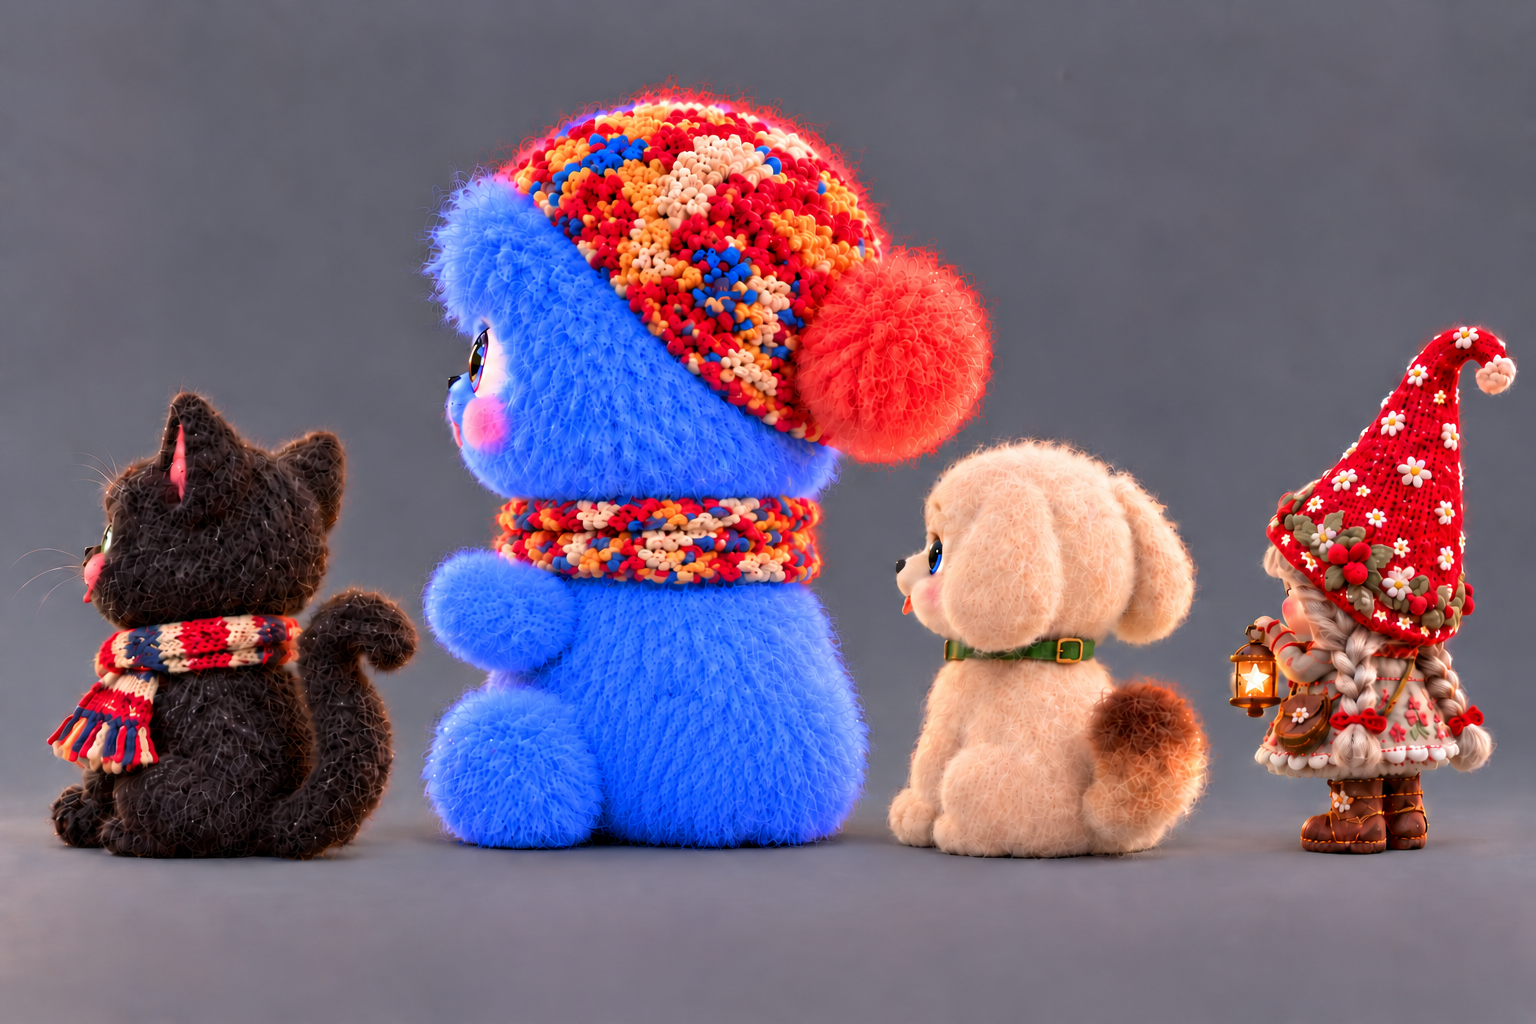
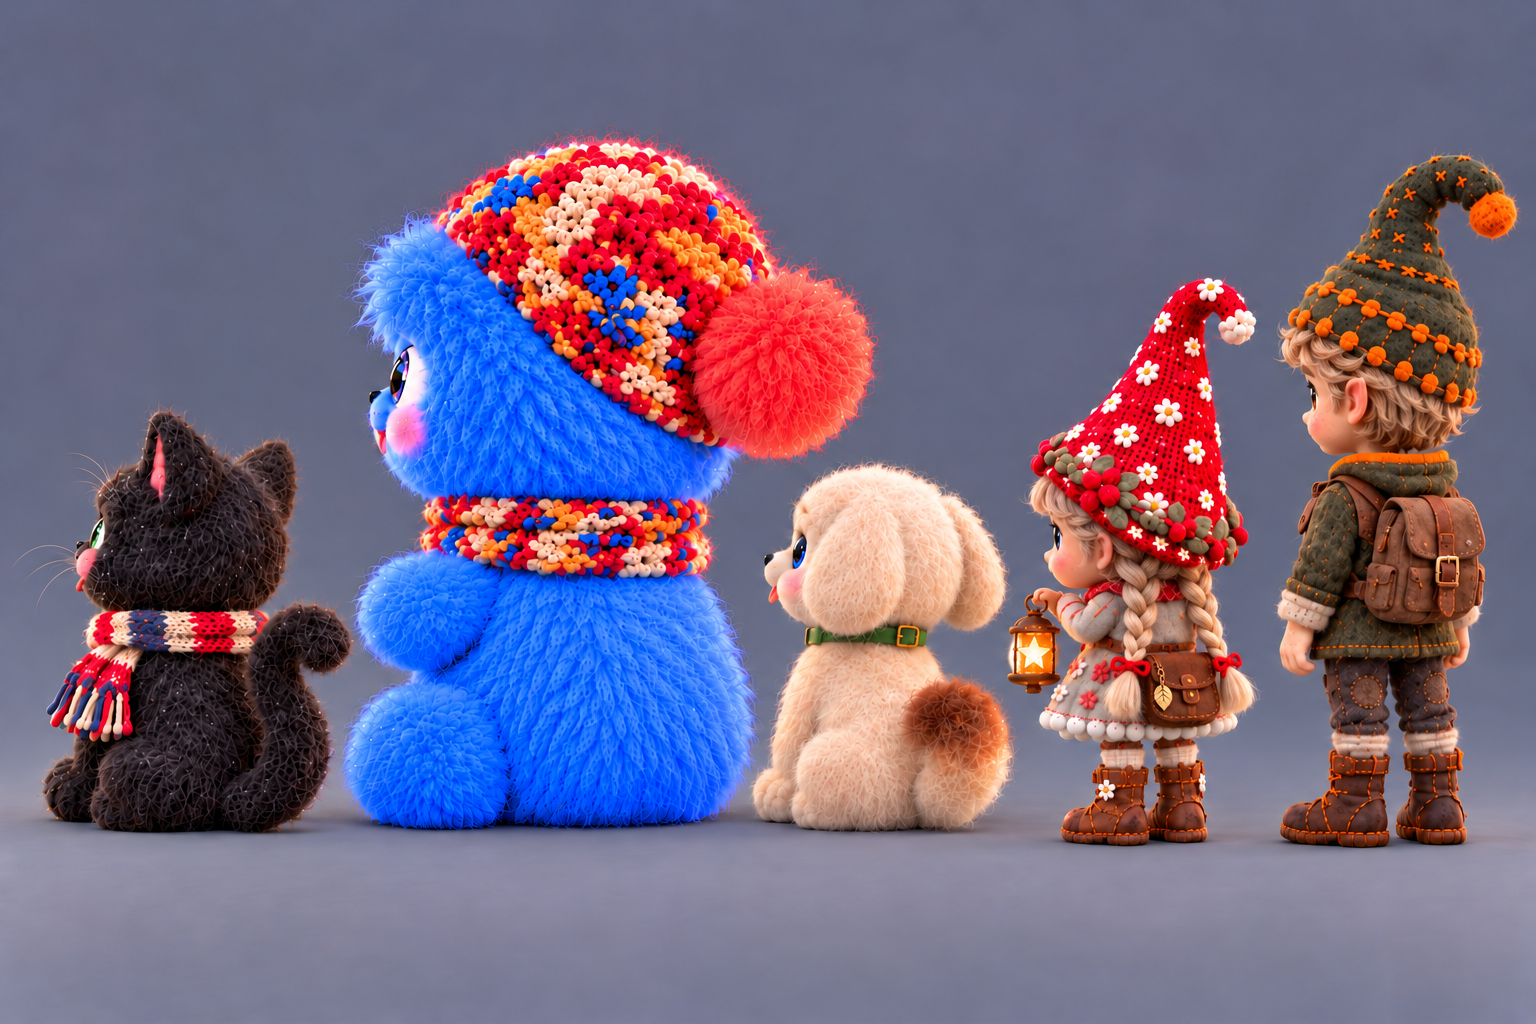
Update all eight character review angles with Jack and revised Nomie

diff --git a/character-review/index.html b/character-review/index.html
@@ -9,7 +9,7 @@
   <title>Character review</title>
   <link rel="icon" href="data:,">
   <link rel="stylesheet" href="review.css">
-  <script src="review.js?v=20261002-lumi-nomie-v2" defer></script>
+  <script src="review.js?v=20261002-five-gnomes-v3" defer></script>
 </head>
 <body>
   <main class="review">
@@ -19,13 +19,13 @@
         <span class="count" id="view-count" aria-label="Image 1 of 8" aria-live="polite" aria-atomic="true">1 / 8</span>
       </div>
       <div class="actions">
-        <a id="original-link" href="images/front.png?v=20261002-lumi-nomie-v2" target="_blank" rel="noopener">Original image</a>
-        <a id="download-link" href="images/front.png?v=20261002-lumi-nomie-v2" download="front.png">Download</a>
+        <a id="original-link" href="images/front.png?v=20261002-five-gnomes-v3" target="_blank" rel="noopener">Original image</a>
+        <a id="download-link" href="images/front.png?v=20261002-five-gnomes-v3" download="front.png">Download</a>
       </div>
     </header>
 
-    <button class="image-button" id="enlarge-button" type="button" aria-label="Enlarge front view of all four characters" aria-haspopup="dialog">
-      <img id="main-image" src="images/front.png?v=20261002-lumi-nomie-v2" width="1536" height="1024" alt="Lumi, Kitty, Doggy and Nomie together, viewed from the front, in their current default outfits." fetchpriority="high">
+    <button class="image-button" id="enlarge-button" type="button" aria-label="Enlarge front view of all five characters" aria-haspopup="dialog">
+      <img id="main-image" src="images/front.png?v=20261002-five-gnomes-v3" width="1536" height="1024" alt="Lumi, Kitty, Doggy, Nomie and Jack together, viewed from the front, in their current default outfits." fetchpriority="high">
       <span class="image-hint">Enlarge</span>
     </button>
     <p id="image-status" class="status" role="status" aria-live="polite"></p>
@@ -64,7 +64,7 @@
         </div>
       </header>
       <div class="zoom-area" id="zoom-area" tabindex="0" aria-label="Enlarged image. When zoomed, scroll to inspect it.">
-        <img id="dialog-image" src="images/front.png?v=20261002-lumi-nomie-v2" width="1536" height="1024" alt="Lumi, Kitty, Doggy and Nomie together, viewed from the front, in their current default outfits.">
+        <img id="dialog-image" src="images/front.png?v=20261002-five-gnomes-v3" width="1536" height="1024" alt="Lumi, Kitty, Doggy, Nomie and Jack together, viewed from the front, in their current default outfits.">
       </div>
     </div>
   </dialog>

diff --git a/character-review/review.js b/character-review/review.js
@@ -22,16 +22,16 @@ const zoomButton = byId('zoom-button');
 let currentIndex = 0;
 let enlarged = false;
 
-const imageRevision = '20261002-lumi-nomie-v2';
+const imageRevision = '20261002-five-gnomes-v3';
 const imageURL = view => `images/${view.id}.png?v=${imageRevision}`;
-const imageAlt = view => `Lumi, Kitty, Doggy and Nomie together, viewed ${view.description}, in their current default outfits.`;
+const imageAlt = view => `Lumi, Kitty, Doggy, Nomie and Jack together, viewed ${view.description}, in their current default outfits.`;
 
 for (const [index, view] of views.entries()) {
   const button = document.createElement('button');
   button.type = 'button';
   button.className = 'angle-button';
   button.dataset.index = String(index);
-  button.setAttribute('aria-label', `Show ${view.label.toLowerCase()} view of all four characters`);
+  button.setAttribute('aria-label', `Show ${view.label.toLowerCase()} view of all five characters`);
   button.setAttribute('aria-pressed', 'false');
   const thumbnail = document.createElement('img');
   thumbnail.src = imageURL(view);
@@ -64,7 +64,7 @@ function showView(index, updateHash = true) {
   byId('view-count').textContent = `${currentIndex + 1} / ${views.length}`;
   byId('view-count').setAttribute('aria-label', `Image ${currentIndex + 1} of ${views.length}`);
   byId('dialog-title').textContent = view.label;
-  byId('enlarge-button').setAttribute('aria-label', `Enlarge ${view.label.toLowerCase()} view of all four characters`);
+  byId('enlarge-button').setAttribute('aria-label', `Enlarge ${view.label.toLowerCase()} view of all five characters`);
   byId('original-link').href = src;
   byId('download-link').href = src;
   byId('download-link').download = `${view.id}.png`;
